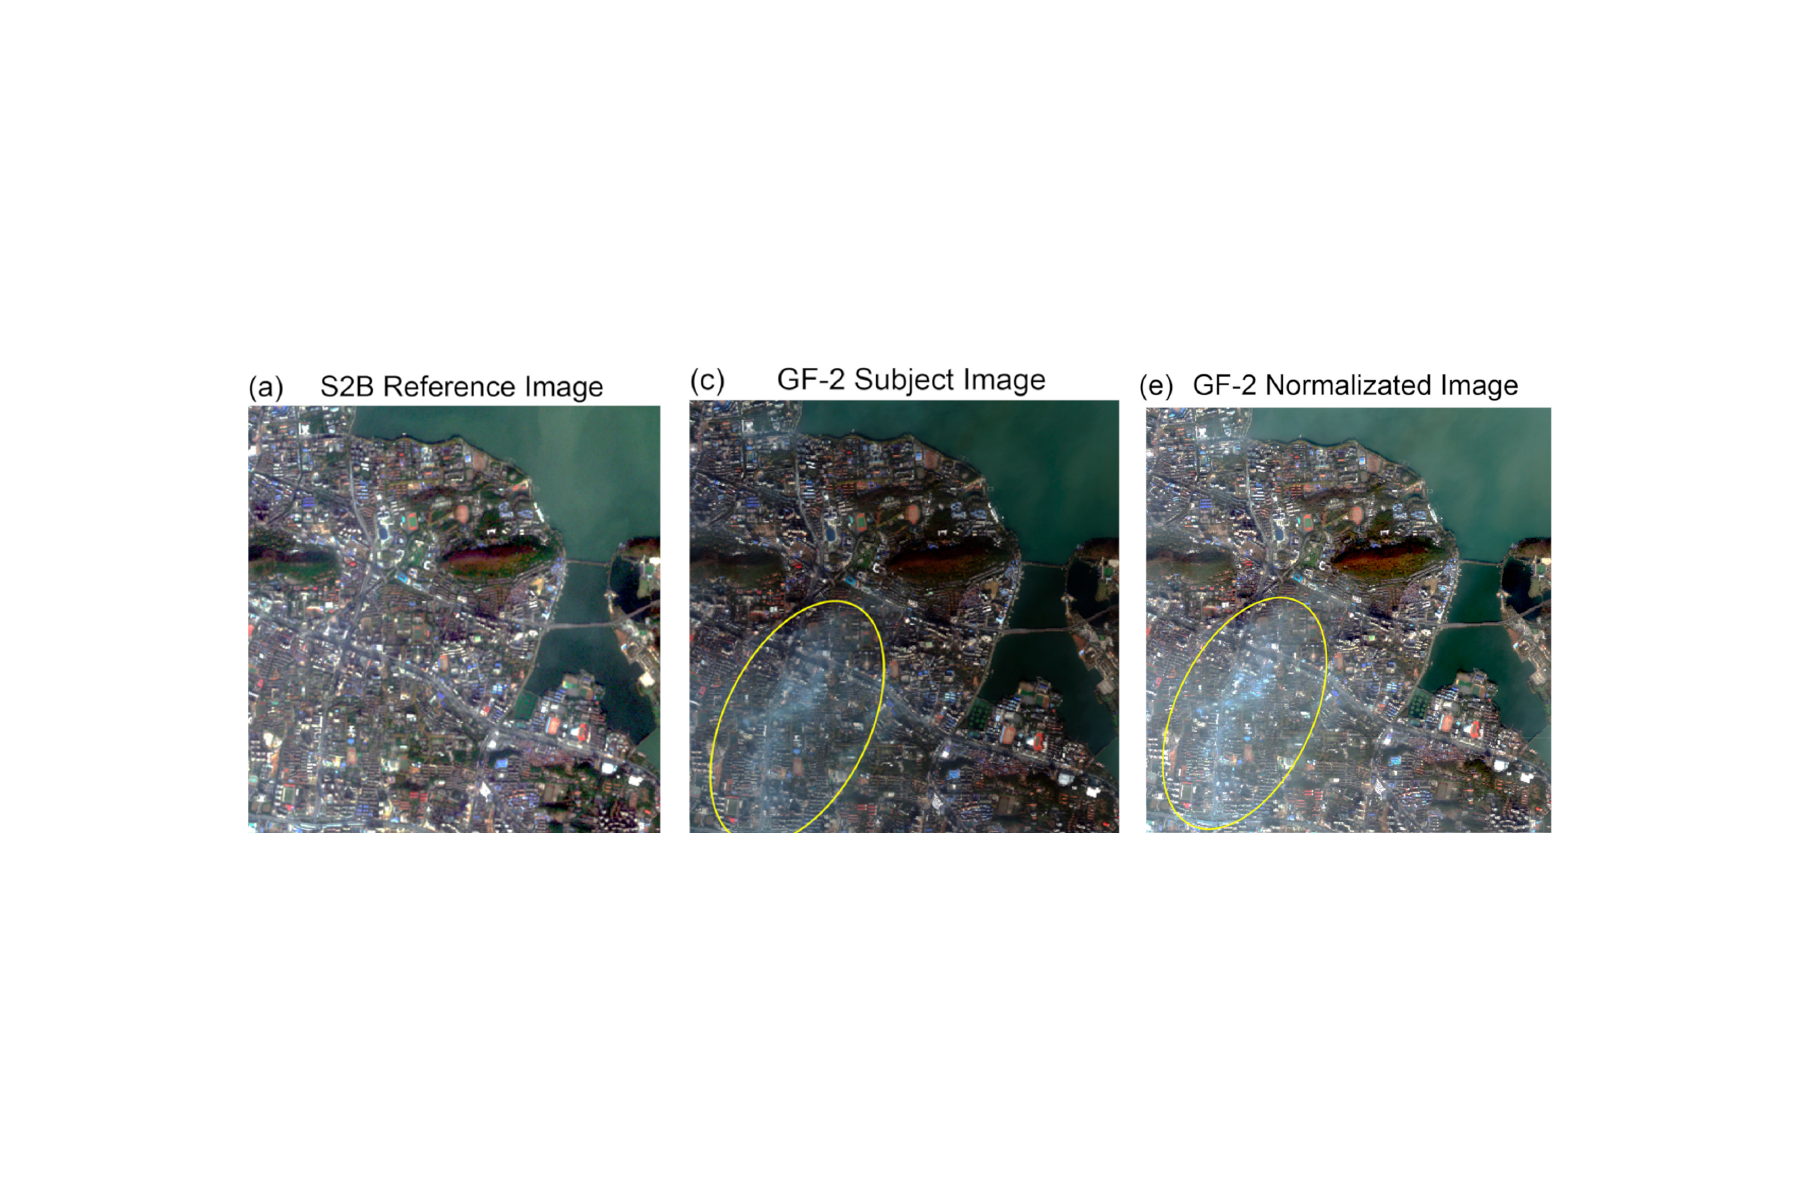
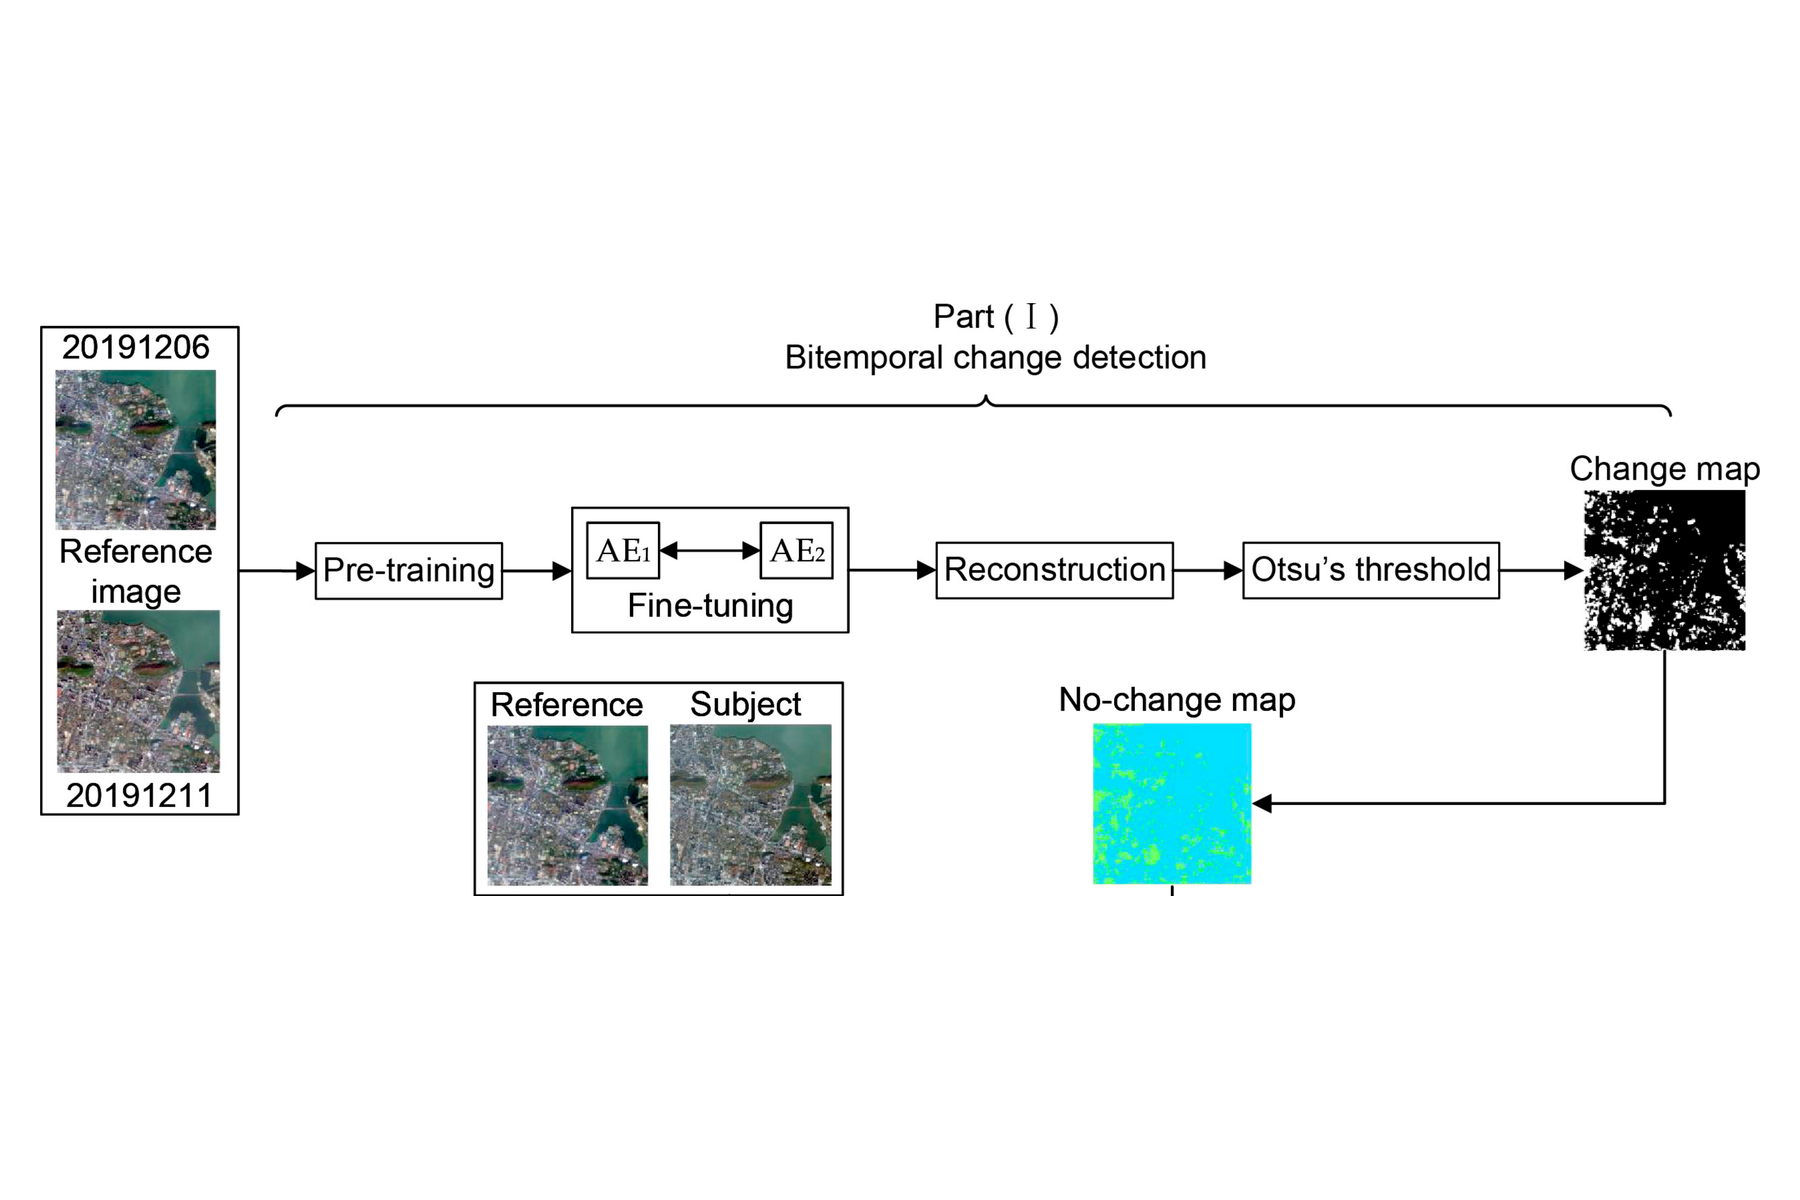
New cover for the Gaofen radiometric normalisation paper
Claude-Session: https://claude.ai/code/session_01R3jEGC5hmYpZhi9VZ2iiFb

diff --git a/content/en/publications/gaofen-radiometric-normalization/index.md b/content/en/publications/gaofen-radiometric-normalization/index.md
@@ -25,4 +25,4 @@ Normalises radiometry across Gaofen sensors by detecting unchanged pixels with c
 **Citation**  
 Yan L., Yang J., Zhang Y., **Zhao A.**, Li X. (2021). Radiometric normalization for cross-sensor optical Gaofen images with change detection and chi-square test. Remote Sensing, 13(16), 3125. [doi:10.3390/rs13163125](https://doi.org/10.3390/rs13163125)
 
-*Cover figure: Sentinel-2 reference image and a GF-2 image before and after normalisation (panels a, c, e of Fig. 11). From Yan et al. (2021), Remote Sensing.*
+*Cover figure: Bitemporal change detection stage of the proposed relative radiometric normalisation method (part of Fig. 2). From Yan et al. (2021), Remote Sensing.*

diff --git a/content/zh/publications/gaofen-radiometric-normalization/index.md b/content/zh/publications/gaofen-radiometric-normalization/index.md
@@ -23,4 +23,4 @@ weight: 0
 **引用**  
 Yan L., Yang J., Zhang Y., **Zhao A.**, Li X. (2021). Radiometric normalization for cross-sensor optical Gaofen images with change detection and chi-square test. Remote Sensing, 13(16), 3125. [doi:10.3390/rs13163125](https://doi.org/10.3390/rs13163125)
 
-*封面图：Sentinel-2 参考影像及 GF-2 影像归一化前后对比（原文图 11 的 a、c、e 子图）。引自 Yan et al. (2021), Remote Sensing。*
+*封面图：所提相对辐射归一化方法中的双时相变化检测部分（原文图 2 局部）。引自 Yan et al. (2021), Remote Sensing。*
